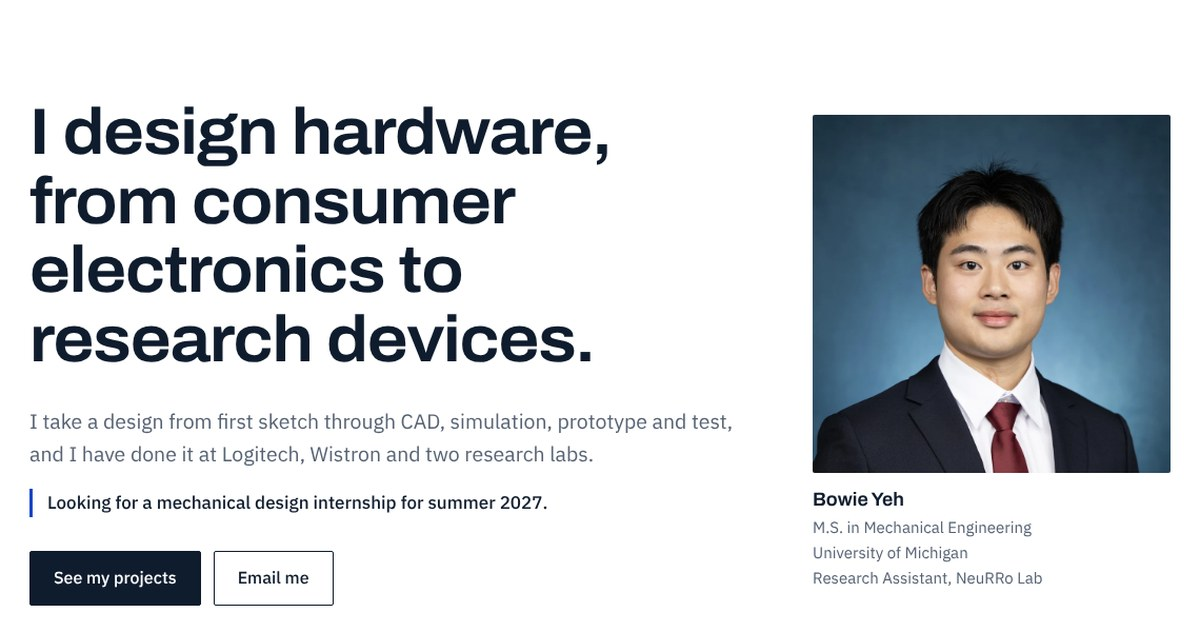
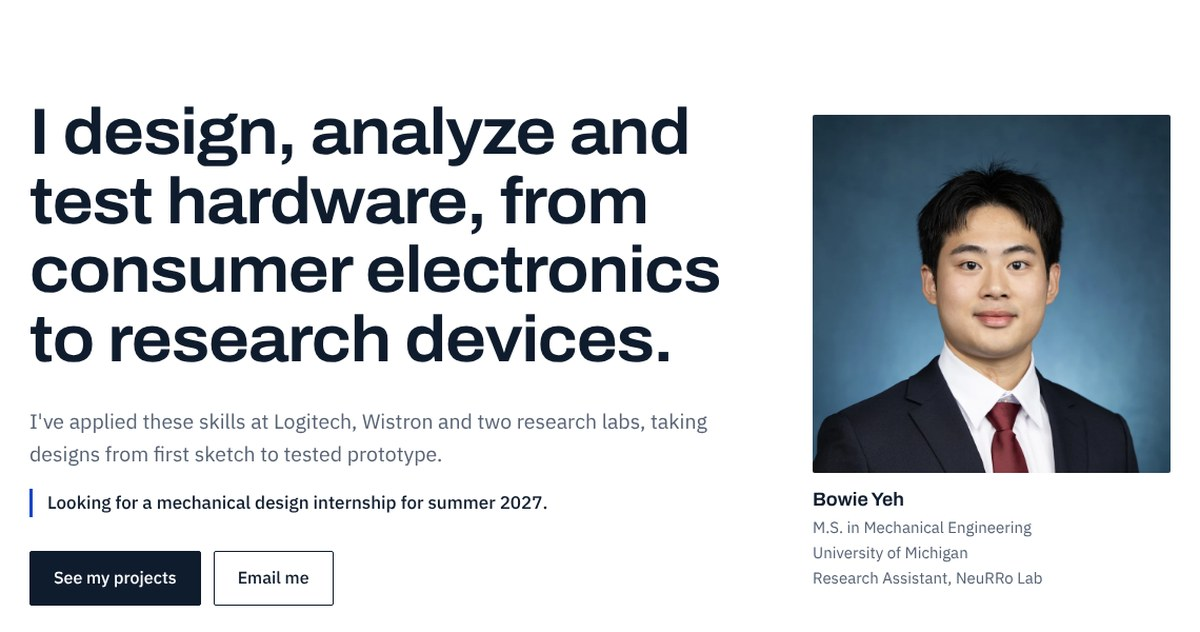
Skills-based Home headline

Changed region(s): [[0.0308, 0.3908, 0.6167, 0.5712], [0.0308, 0.1503, 0.5858, 0.3608], [0.0308, 0.6614, 0.6167, 0.7516]]

diff --git a/index.html b/index.html
@@ -4,9 +4,9 @@
 <meta charset="utf-8">
 <meta name="viewport" content="width=device-width, initial-scale=1">
 <title>Bowie Yeh, Mechanical Design Engineer</title>
-<meta name="description" content="Bowie Yeh is a mechanical design engineer and M.S.E. student at the University of Michigan, designing hardware from consumer electronics to research devices.">
+<meta name="description" content="Bowie Yeh is a mechanical design engineer and M.S.E. student at the University of Michigan, designing, analyzing and testing hardware from consumer electronics to research devices.">
 <meta property="og:title" content="Bowie Yeh, Mechanical Design Engineer">
-<meta property="og:description" content="Hardware design, from consumer electronics to research devices. Logitech, Wistron, University of Michigan.">
+<meta property="og:description" content="Hardware design, analysis and testing, from consumer electronics to research devices. Logitech, Wistron, University of Michigan.">
 <meta property="og:type" content="website">
 <meta property="og:image" content="https://byyeh.github.io/assets/img/og.jpg">
 <link rel="icon" href="assets/favicon.svg" type="image/svg+xml">
@@ -34,8 +34,8 @@
 
 <section id="home" class="view hero portrait wrap">
   <div class="hero-text">
-    <h1>I design hardware, from consumer electronics to research devices.</h1>
-    <p class="lede">I take a design from first sketch through CAD, simulation, prototype and test, and I have done it at Logitech, Wistron and two research labs.</p>
+    <h1>I design, analyze and test hardware, from consumer electronics to research devices.</h1>
+    <p class="lede">I've applied these skills at Logitech, Wistron and two research labs, taking designs from first sketch to tested prototype.</p>
     <p class="status">Looking for a mechanical design internship for summer 2027.</p>
     <div class="actions">
       <a class="btn primary" href="#projects">See my projects</a>
